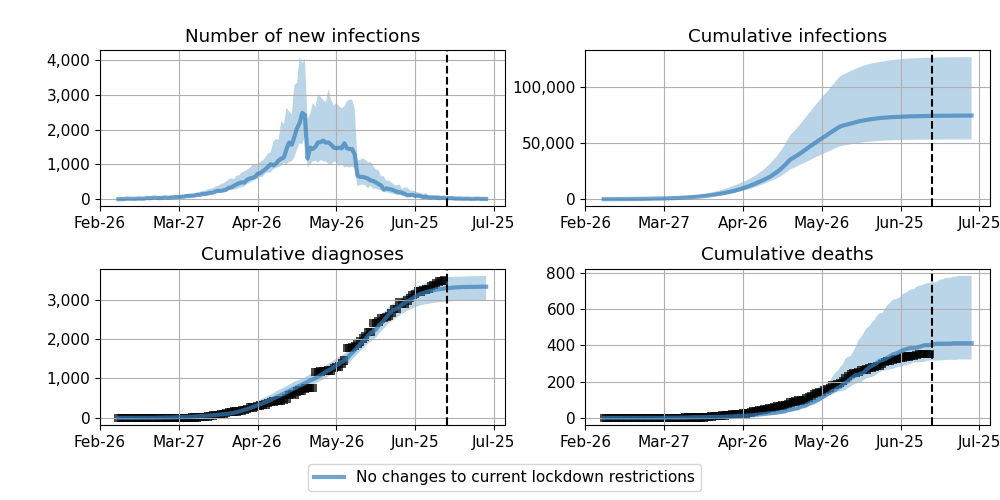
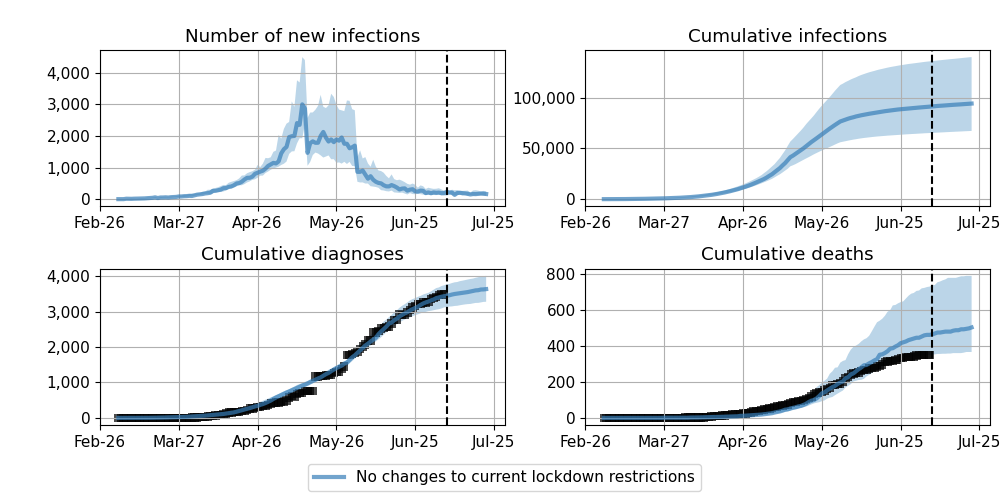
Update Nova Iguacu

diff --git a/applications/Brazil/NI_run.py b/applications/Brazil/NI_run.py
@@ -7,7 +7,7 @@ import xlsxwriter
 
 if __name__ == "__main__":
     # the list of locations for this analysis
-    locations = ['BH']
+    locations = ['NI']
     # the name of the databook
     db_name = 'input_data_Brazil'
     epi_name = 'epi_data_Brazil'
@@ -17,38 +17,39 @@ if __name__ == "__main__":
     dynamic_lkeys = ['C']  # layers which update dynamically (subset of all_lkeys)
 
     # country-BHecific parameters
-    user_pars = {'BH': {'pop_size': int(10e4),
-                        'beta': 0.1,
+    user_pars = {'NI': {'pop_size': int(10e4),
+                        'beta': 0.08,
                         'n_days': 289,
-                        'calibration_end': '2020-07-05'}}
+                        'pop_infected': 25,
+                        'calibration_end': '2020-07-07'}}
 
     # the metapars for all countries and scenarios
     metapars = {'n_runs': 8,
-                'noise': 0.02,
+                'noise': 0.03,
                 'verbose': 1,
                 'rand_seed': 1}
 
     # the policies to change during scenario runs
     # scen_opts = {'BH': {'No changes to current lockdown restrictions':
-    scen_opts = {'BH': {'Small easing of restrictions in mid-August':
-                            {'replace': (['lockdown3'], [['relax1']], [[150]]),
+    scen_opts = {'NI': {'Small easing of restrictions in mid-August':
+                            {'replace': (['lockdown4'], [['relax1']], [[164]]),
                              'policies': {'relax1': {'beta': 0.3}}},
 
                         'Moderate easing of restrictions in mid-August':
-                            {'replace': (['lockdown3'], [['relax2']], [[150]]),
+                            {'replace': (['lockdown4'], [['relax2']], [[164]]),
                              'policies': {'relax2': {'beta': 0.4}}},
 
                         'Small easing of restrictions in mid-July':
-                            {'replace': (['lockdown3'], [['relax1']], [[119]]),
+                            {'replace': (['lockdown4'], [['relax1']], [[133]]),
                              'policies': {'relax1': {'beta': 0.3}}},
 
                         'Moderate easing of restrictions in mid-July':
-                            {'replace': (['lockdown3'], [['relax2']], [[119]]),
+                            {'replace': (['lockdown4'], [['relax2']], [[133]]),
                              'policies': {'relax2': {'beta': 0.4}}},
 
                         'No changes to current lockdown restrictions':
-                            {'replace': (['lockdown3'], [['lockdown3']], [[110]]),
-                             'policies': {'lockdown3': {'beta': 0.2}}}}}
+                            {'replace': (['lockdown4'], [['lockdown4']], [[110]]),
+                             'policies': {'lockdown4': {'beta': 0.2}}}}}
 
     # set up the scenarios
     scens = ui.setup_scens(locations=locations,
@@ -66,7 +67,7 @@ if __name__ == "__main__":
 
     # plot cumulative infections to see if all the population gets infected
     utils.policy_plot2(scens, plot_ints=False, do_save=True, do_show=True,
-                       fig_path=dirname + '/figs/BH-projection' + '.png',
+                       fig_path=dirname + '/figs/NI-projection' + '.png',
                        interval=30, n_cols=1,
                        fig_args=dict(figsize=(10, 8), dpi=100),
                        font_size=11,
@@ -77,77 +78,77 @@ if __name__ == "__main__":
                        to_plot=['new_infections', 'cum_infections', 'cum_diagnoses'])
 
     # Results
-    population = 2872347
+    population = 800000
 
     # Lower Bound: no change in restrictions
     new_inf_LB_sep_oct = sum(
-        scens['scenarios']['BH'].results['new_infections']['No changes to current lockdown restrictions']['best'][
-        181:226])
+        scens['scenarios']['NI'].results['new_infections']['No changes to current lockdown restrictions']['best'][
+        195:240])
     new_diag_LB_sep_oct = sum(
-        scens['scenarios']['BH'].results['new_diagnoses']['No changes to current lockdown restrictions']['best'][
-        181:226])
+        scens['scenarios']['NI'].results['new_diagnoses']['No changes to current lockdown restrictions']['best'][
+        195:240])
     cum_inf_LB_sep_oct = \
-    scens['scenarios']['BH'].results['cum_infections']['No changes to current lockdown restrictions']['best'][226]
-    incidence_LB_sep_oct = 100 * new_inf_LB_sep_oct * 30 / (226 - 181) / population
-    detected_LB_sep_oct = 100 * new_diag_LB_sep_oct * 30 / (226 - 181)
+    scens['scenarios']['NI'].results['cum_infections']['No changes to current lockdown restrictions']['best'][240]
+    incidence_LB_sep_oct = 100 * new_inf_LB_sep_oct * 30 / (240 - 195) / population
+    detected_LB_sep_oct = 100 * new_diag_LB_sep_oct * 30 / (240 - 195) / population
     seroprev_LB_sep_oct = cum_inf_LB_sep_oct / population
 
     new_inf_LB_nov_dec = sum(
-        scens['scenarios']['BH'].results['new_infections']['No changes to current lockdown restrictions']['best'][
-        228:271])
+        scens['scenarios']['NI'].results['new_infections']['No changes to current lockdown restrictions']['best'][
+        242:285])
     new_diag_LB_nov_dec = sum(
-        scens['scenarios']['BH'].results['new_diagnoses']['No changes to current lockdown restrictions']['best'][
-        228:271])
+        scens['scenarios']['NI'].results['new_diagnoses']['No changes to current lockdown restrictions']['best'][
+        242:285])
     cum_inf_LB_nov_dec = \
-    scens['scenarios']['BH'].results['cum_infections']['No changes to current lockdown restrictions']['best'][271]
-    incidence_LB_nov_dec = 100 * new_inf_LB_nov_dec * 30 / (271 - 228) / population
-    detected_LB_nov_dec = 100 * new_diag_LB_nov_dec * 30 / (271 - 228)
+    scens['scenarios']['NI'].results['cum_infections']['No changes to current lockdown restrictions']['best'][285]
+    incidence_LB_nov_dec = 100 * new_inf_LB_nov_dec * 30 / (285 - 242) / population
+    detected_LB_nov_dec = 100 * new_diag_LB_nov_dec * 30 / (285 - 242) / population
     seroprev_LB_nov_dec = cum_inf_LB_nov_dec / population
 
     # Mid Bound: small change mid- July
     new_inf_MB_sep_oct = sum(
-        scens['scenarios']['BH'].results['new_infections']['Small easing of restrictions in mid-July']['best'][181:226])
+        scens['scenarios']['NI'].results['new_infections']['Small easing of restrictions in mid-July']['best'][195:240])
     new_diag_MB_sep_oct = sum(
-        scens['scenarios']['BH'].results['new_diagnoses']['Small easing of restrictions in mid-July']['best'][181:226])
+        scens['scenarios']['NI'].results['new_diagnoses']['Small easing of restrictions in mid-July']['best'][195:240])
     cum_inf_MB_sep_oct = \
-    scens['scenarios']['BH'].results['cum_infections']['Small easing of restrictions in mid-July']['best'][226]
-    incidence_MB_sep_oct = 100 * new_inf_MB_sep_oct * 30 / (226 - 181) / population
-    detected_MB_sep_oct = 100 * new_diag_MB_sep_oct * 30 / (226 - 181)
+    scens['scenarios']['NI'].results['cum_infections']['Small easing of restrictions in mid-July']['best'][240]
+    incidence_MB_sep_oct = 100 * new_inf_MB_sep_oct * 30 / (240 - 195) / population
+    detected_MB_sep_oct = 100 * new_diag_MB_sep_oct * 30 / (240 - 195) / population
     seroprev_MB_sep_oct = cum_inf_MB_sep_oct / population
 
     new_inf_MB_nov_dec = sum(
-        scens['scenarios']['BH'].results['new_infections']['Small easing of restrictions in mid-July']['best'][228:271])
+        scens['scenarios']['NI'].results['new_infections']['Small easing of restrictions in mid-July']['best'][242:285])
     new_diag_MB_nov_dec = sum(
-        scens['scenarios']['BH'].results['new_diagnoses']['Small easing of restrictions in mid-July']['best'][228:271])
+        scens['scenarios']['NI'].results['new_diagnoses']['Small easing of restrictions in mid-July']['best'][242:285])
     cum_inf_MB_nov_dec = \
-    scens['scenarios']['BH'].results['cum_infections']['Small easing of restrictions in mid-July']['best'][271]
-    incidence_MB_nov_dec = 100 * new_inf_MB_nov_dec * 30 / (271 - 228) / population
-    detected_MB_nov_dec = 100 * new_diag_MB_nov_dec * 30 / (271 - 228)
+    scens['scenarios']['NI'].results['cum_infections']['Small easing of restrictions in mid-July']['best'][285]
+    incidence_MB_nov_dec = 100 * new_inf_MB_nov_dec * 30 / (285 - 242) / population
+    detected_MB_nov_dec = 100 * new_diag_MB_nov_dec * 30 / (285 - 242) / population
     seroprev_MB_nov_dec = cum_inf_MB_nov_dec / population
 
     # Upper Bound: moderate change mid-August
     new_inf_UB_sep_oct = sum(
-        scens['scenarios']['BH'].results['new_infections']['Moderate easing of restrictions in mid-August']['best'][
-        181:226])
+        scens['scenarios']['NI'].results['new_infections']['Moderate easing of restrictions in mid-August']['best'][
+        195:240])
     new_diag_UB_sep_oct = sum(
-        scens['scenarios']['BH'].results['new_diagnoses']['Moderate easing of restrictions in mid-August']['best'][
-        181:226])
+        scens['scenarios']['NI'].results['new_diagnoses']['Moderate easing of restrictions in mid-August']['best'][
+        195:240])
     cum_inf_UB_sep_oct = \
-    scens['scenarios']['BH'].results['cum_infections']['Moderate easing of restrictions in mid-August']['best'][226]
-    incidence_UB_sep_oct = 100 * new_inf_UB_sep_oct * 30 / (226 - 181) / population
-    detected_UB_sep_oct = 100 * new_diag_UB_sep_oct * 30 / (226 - 181)
+    scens['scenarios']['NI'].results['cum_infections']['Moderate easing of restrictions in mid-August']['best'][240]
+    incidence_UB_sep_oct = 100 * new_inf_UB_sep_oct * 30 / (240 - 195) / population
+    detected_UB_sep_oct = 100 * new_diag_UB_sep_oct * 30 / (240 - 195) / population
     seroprev_UB_sep_oct = cum_inf_UB_sep_oct / population
 
     new_inf_UB_nov_dec = sum(
-        scens['scenarios']['BH'].results['new_infections']['Moderate easing of restrictions in mid-August']['best'][
-        228:271])
+        scens['scenarios']['NI'].results['new_infections']['Moderate easing of restrictions in mid-August']['best'][
+        242:285])
     new_diag_UB_nov_dec = sum(
-        scens['scenarios']['BH'].results['new_diagnoses']['Moderate easing of restrictions in mid-August']['best'][
-        228:271])
+        scens['scenarios']['NI'].results['new_diagnoses']['Moderate easing of restrictions in mid-August']['best'][
+        242:285])
     cum_inf_UB_nov_dec = \
-    scens['scenarios']['BH'].results['cum_infections']['Moderate easing of restrictions in mid-August']['best'][271]
-    incidence_UB_nov_dec = 100 * new_inf_UB_nov_dec * 30 / (271 - 228) / population
-    detected_UB_nov_dec = 100 * new_diag_UB_nov_dec * 30 / (271 - 228)
+    scens['scenarios']['NI'].results['cum_infections']['Moderate easing of restrictions in mid-August']['best'][285]
+    incidence_UB_nov_dec = 100 * new_inf_UB_nov_dec * 30 / (285 - 242) / population
+    detected_UB_nov_dec = 100 * new_diag_UB_nov_dec * 30 / (285 - 242) / population
     seroprev_UB_nov_dec = cum_inf_UB_nov_dec / population
 
     projections = [
@@ -161,16 +162,16 @@ if __name__ == "__main__":
          'MB', 'LB', 'UB', 'MB', 'LB', 'UB'],
         [int(new_inf_MB_sep_oct), int(new_inf_LB_sep_oct), int(new_inf_UB_sep_oct),
          incidence_MB_sep_oct, incidence_LB_sep_oct, incidence_UB_sep_oct,
-         int(detected_MB_sep_oct), int(detected_LB_sep_oct), int(detected_UB_sep_oct),
+         detected_MB_sep_oct, detected_LB_sep_oct, detected_UB_sep_oct,
          seroprev_MB_sep_oct, seroprev_LB_sep_oct, seroprev_UB_sep_oct,
          int(new_inf_MB_nov_dec), int(new_inf_LB_nov_dec), int(new_inf_UB_nov_dec),
          incidence_MB_nov_dec, incidence_LB_nov_dec, incidence_UB_nov_dec,
-         int(detected_MB_nov_dec), int(detected_LB_nov_dec), int(detected_UB_nov_dec),
+         detected_MB_nov_dec, detected_LB_nov_dec, detected_UB_nov_dec,
          seroprev_MB_nov_dec, seroprev_LB_nov_dec, seroprev_UB_nov_dec]
     ]
 
     # Export results to Excel
-    workbook = xlsxwriter.Workbook('BH_projections.xlsx')
+    workbook = xlsxwriter.Workbook('NI_projections.xlsx')
     worksheet = workbook.add_worksheet('Projections')
     worksheet.add_table('A1:X4', {'data': projections, 'header_row': False})
     workbook.close()
